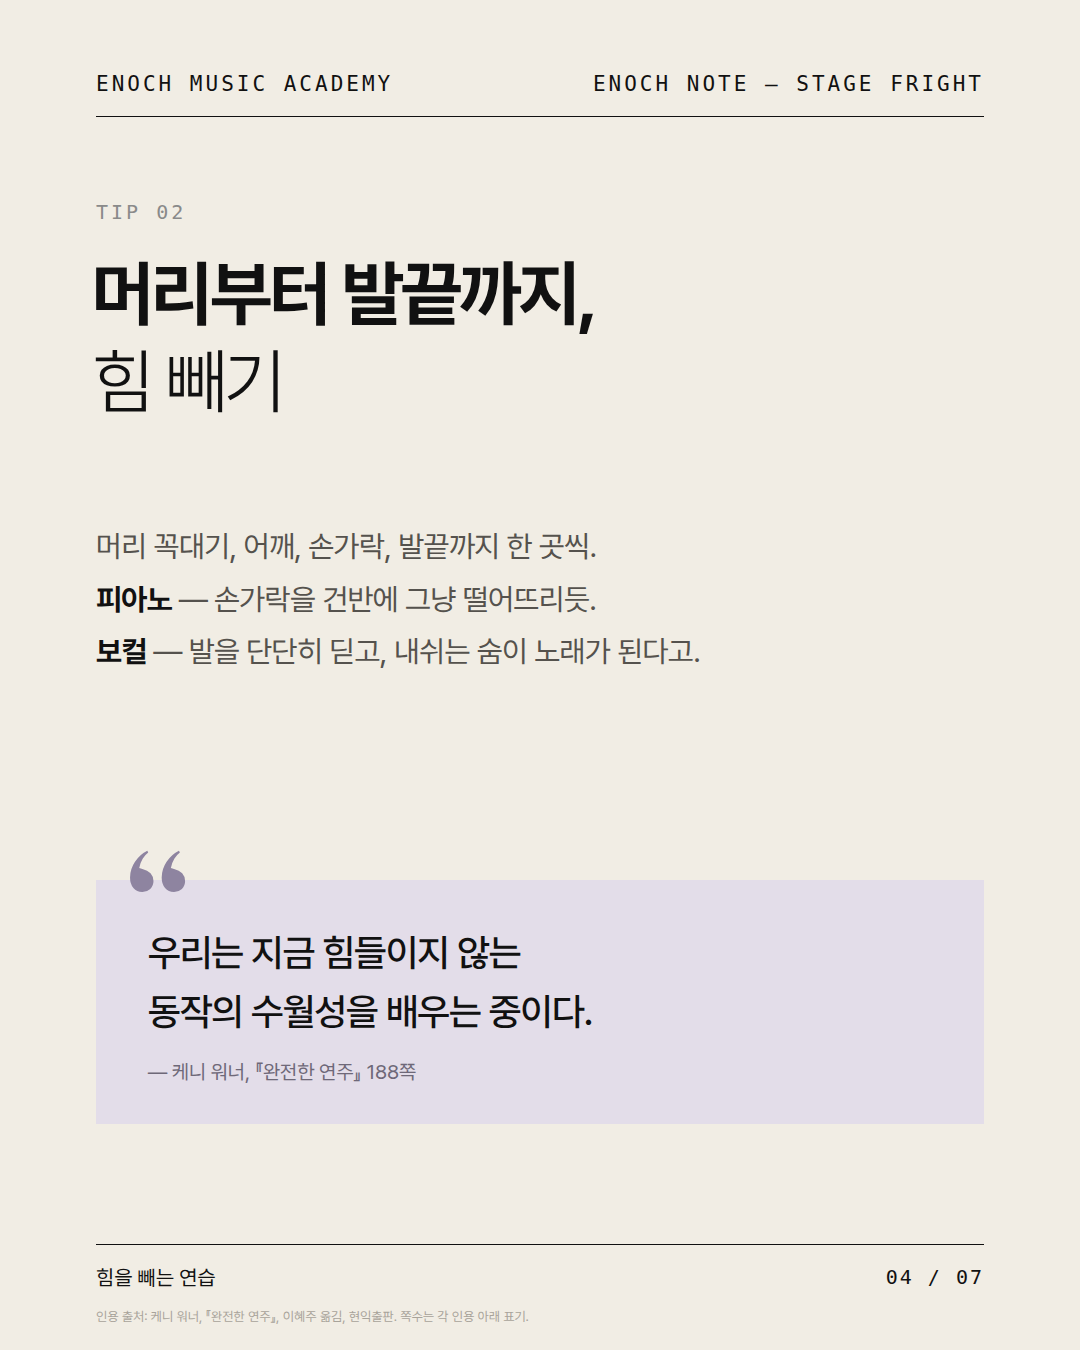
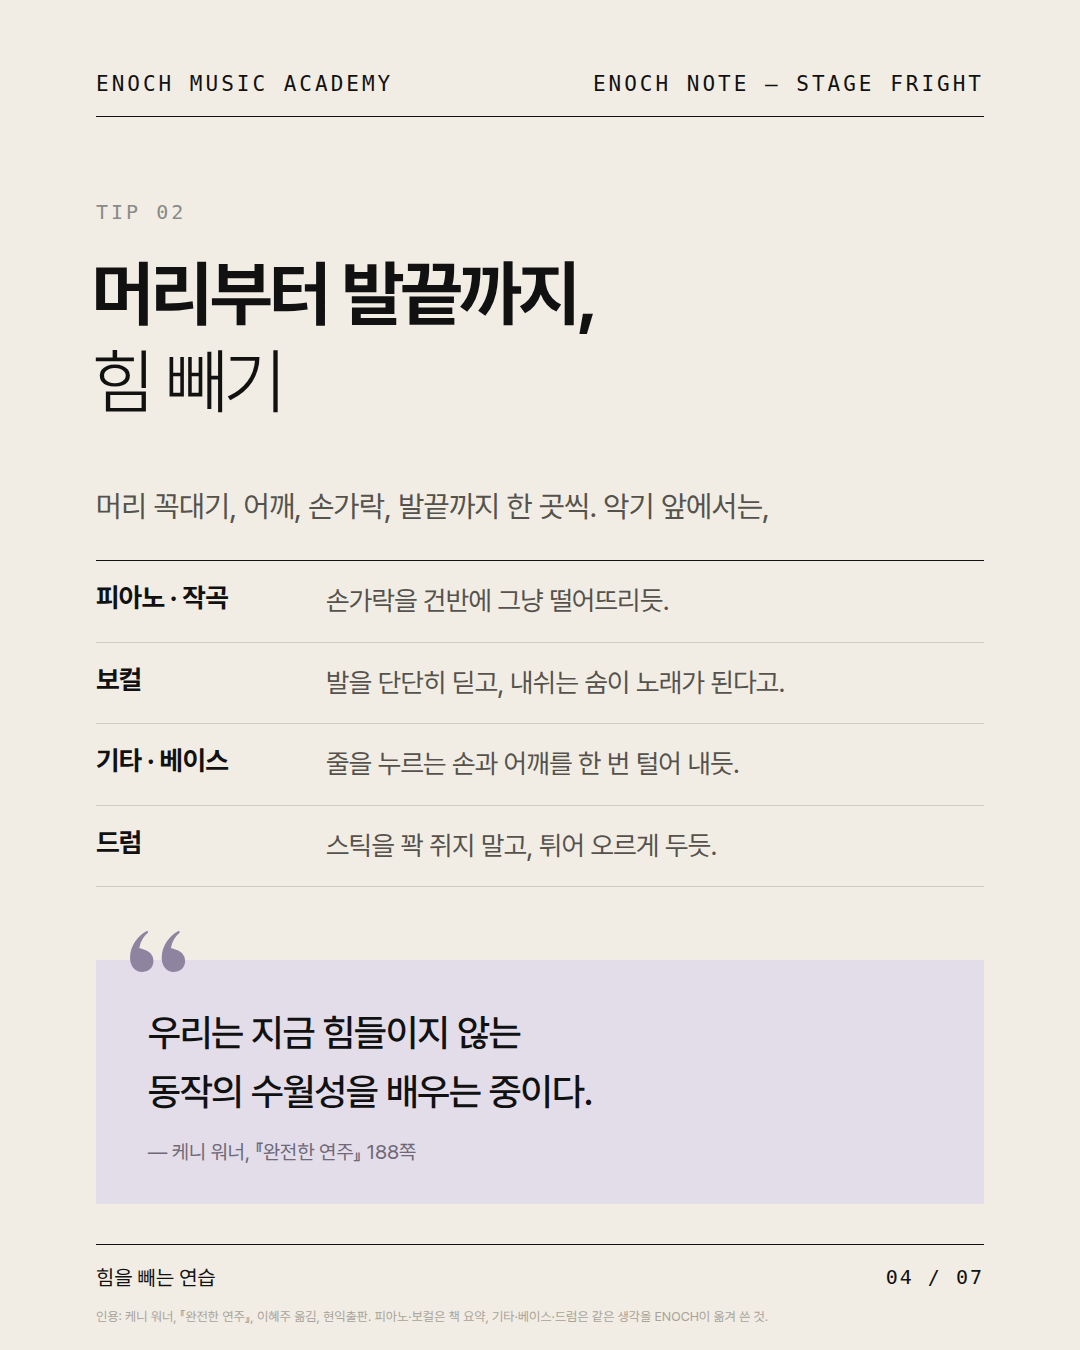
완전한 연주 편: 4장에 악기별 힘 빼기 한 줄 추가
Claude-Session: https://claude.ai/code/session_01HGbZvgMeYrbU7mY8bwfjyb

diff --git a/output/책_완전한연주_1단계/deck.html b/output/책_완전한연주_1단계/deck.html
@@ -53,9 +53,10 @@
 <div class="ft"><span>힘을 빼는 연습</span><span>03 / 07</span></div><div class="src">케니 워너, 『완전한 연주』 185쪽 요약.</div></section><section class="s" id="b4"><div class="hd"><span>ENOCH MUSIC ACADEMY</span><span>ENOCH NOTE — STAGE FRIGHT</span></div>
 <div class="k" style="position:absolute;left:96px;top:200px">Tip 02</div>
 <div class="h" style="position:absolute;left:92px;top:250px">머리부터 발끝까지,<br><em>힘 빼기</em></div>
-<div class="p" style="position:absolute;left:96px;right:96px;top:520px">머리 꼭대기, 어깨, 손가락, 발끝까지 한 곳씩.<br><b>피아노</b> — 손가락을 건반에 그냥 떨어뜨리듯.<br><b>보컬</b> — 발을 단단히 딛고, 내쉬는 숨이 노래가 된다고.</div>
-<div class="q" style="position:absolute;left:96px;right:96px;top:880px"><div class="t">우리는 지금 힘들이지 않는<br>동작의 수월성을 배우는 중이다.</div><div class="pg">— 케니 워너, 『완전한 연주』 188쪽</div></div>
-<div class="ft"><span>힘을 빼는 연습</span><span>04 / 07</span></div><div class="src">인용 출처: 케니 워너, 『완전한 연주』, 이혜주 옮김, 현익출판. 쪽수는 각 인용 아래 표기.</div></section><section class="s dark" id="b5"><div class="hd"><span>ENOCH MUSIC ACADEMY</span><span>TIP 03</span></div>
+<div class="p" style="position:absolute;left:96px;right:96px;top:480px">머리 꼭대기, 어깨, 손가락, 발끝까지 한 곳씩. 악기 앞에서는,</div>
+<div style="position:absolute;left:96px;right:96px;top:560px;border-top:1.5px solid #111"><div style="display:flex;gap:30px;padding:20px 0;border-bottom:1px solid rgba(17,17,17,.15)"><span style="width:200px;flex:none;font-size:27px;font-weight:700;letter-spacing:-.6px">피아노 · 작곡</span><span class="p" style="font-size:27px;line-height:1.5">손가락을 건반에 그냥 떨어뜨리듯.</span></div><div style="display:flex;gap:30px;padding:20px 0;border-bottom:1px solid rgba(17,17,17,.15)"><span style="width:200px;flex:none;font-size:27px;font-weight:700;letter-spacing:-.6px">보컬</span><span class="p" style="font-size:27px;line-height:1.5">발을 단단히 딛고, 내쉬는 숨이 노래가 된다고.</span></div><div style="display:flex;gap:30px;padding:20px 0;border-bottom:1px solid rgba(17,17,17,.15)"><span style="width:200px;flex:none;font-size:27px;font-weight:700;letter-spacing:-.6px">기타 · 베이스</span><span class="p" style="font-size:27px;line-height:1.5">줄을 누르는 손과 어깨를 한 번 털어 내듯.</span></div><div style="display:flex;gap:30px;padding:20px 0;border-bottom:1px solid rgba(17,17,17,.15)"><span style="width:200px;flex:none;font-size:27px;font-weight:700;letter-spacing:-.6px">드럼</span><span class="p" style="font-size:27px;line-height:1.5">스틱을 꽉 쥐지 말고, 튀어 오르게 두듯.</span></div></div>
+<div class="q" style="position:absolute;left:96px;right:96px;top:960px"><div class="t">우리는 지금 힘들이지 않는<br>동작의 수월성을 배우는 중이다.</div><div class="pg">— 케니 워너, 『완전한 연주』 188쪽</div></div>
+<div class="ft"><span>힘을 빼는 연습</span><span>04 / 07</span></div><div class="src">인용: 케니 워너, 『완전한 연주』, 이혜주 옮김, 현익출판. 피아노·보컬은 책 요약, 기타·베이스·드럼은 같은 생각을 ENOCH이 옮겨 쓴 것.</div></section><section class="s dark" id="b5"><div class="hd"><span>ENOCH MUSIC ACADEMY</span><span>TIP 03</span></div>
 <div class="h" style="position:absolute;left:92px;top:200px">잘해야 한다는 생각,<br><em>잠깐 내려놓기</em></div>
 <div class="p" style="position:absolute;left:96px;right:96px;top:470px">오늘 할 일은 연습한 만큼 연주하는 것.<br>잘 보여야 한다는 생각은, 2분만 옆에 두세요.</div>
 <div style="position:absolute;left:96px;right:96px;top:760px;background:#1E1D1B;padding:44px 52px 40px">

diff --git a/output/책_완전한연주_1단계/gen.py b/output/책_완전한연주_1단계/gen.py
@@ -78,9 +78,10 @@ S.append(f"""<section class="s" id="b3">{HD()}
 S.append(f"""<section class="s" id="b4">{HD()}
 <div class="k" style="position:absolute;left:96px;top:200px">Tip 02</div>
 <div class="h" style="position:absolute;left:92px;top:250px">머리부터 발끝까지,<br><em>힘 빼기</em></div>
-<div class="p" style="position:absolute;left:96px;right:96px;top:520px">머리 꼭대기, 어깨, 손가락, 발끝까지 한 곳씩.<br><b>피아노</b> — 손가락을 건반에 그냥 떨어뜨리듯.<br><b>보컬</b> — 발을 단단히 딛고, 내쉬는 숨이 노래가 된다고.</div>
-{quote("우리는 지금 힘들이지 않는<br>동작의 수월성을 배우는 중이다.", "케니 워너, 『완전한 연주』 188쪽", 880)}
-{FT(4)}{SRC}</section>""")
+<div class="p" style="position:absolute;left:96px;right:96px;top:480px">머리 꼭대기, 어깨, 손가락, 발끝까지 한 곳씩. 악기 앞에서는,</div>
+<div style="position:absolute;left:96px;right:96px;top:560px;border-top:1.5px solid #111"><div style="display:flex;gap:30px;padding:20px 0;border-bottom:1px solid rgba(17,17,17,.15)"><span style="width:200px;flex:none;font-size:27px;font-weight:700;letter-spacing:-.6px">피아노 · 작곡</span><span class="p" style="font-size:27px;line-height:1.5">손가락을 건반에 그냥 떨어뜨리듯.</span></div><div style="display:flex;gap:30px;padding:20px 0;border-bottom:1px solid rgba(17,17,17,.15)"><span style="width:200px;flex:none;font-size:27px;font-weight:700;letter-spacing:-.6px">보컬</span><span class="p" style="font-size:27px;line-height:1.5">발을 단단히 딛고, 내쉬는 숨이 노래가 된다고.</span></div><div style="display:flex;gap:30px;padding:20px 0;border-bottom:1px solid rgba(17,17,17,.15)"><span style="width:200px;flex:none;font-size:27px;font-weight:700;letter-spacing:-.6px">기타 · 베이스</span><span class="p" style="font-size:27px;line-height:1.5">줄을 누르는 손과 어깨를 한 번 털어 내듯.</span></div><div style="display:flex;gap:30px;padding:20px 0;border-bottom:1px solid rgba(17,17,17,.15)"><span style="width:200px;flex:none;font-size:27px;font-weight:700;letter-spacing:-.6px">드럼</span><span class="p" style="font-size:27px;line-height:1.5">스틱을 꽉 쥐지 말고, 튀어 오르게 두듯.</span></div></div>
+{quote("우리는 지금 힘들이지 않는<br>동작의 수월성을 배우는 중이다.", "케니 워너, 『완전한 연주』 188쪽", 960)}
+{FT(4)}<div class="src">인용: 케니 워너, 『완전한 연주』, 이혜주 옮김, 현익출판. 피아노·보컬은 책 요약, 기타·베이스·드럼은 같은 생각을 ENOCH이 옮겨 쓴 것.</div></section>""")
 
 S.append(f"""<section class="s dark" id="b5">{HD("TIP 03")}
 <div class="h" style="position:absolute;left:92px;top:200px">잘해야 한다는 생각,<br><em>잠깐 내려놓기</em></div>

diff --git a/output/책_완전한연주_1단계/caption.md b/output/책_완전한연주_1단계/caption.md
@@ -7,6 +7,7 @@
 
 1. 길게 내쉬기 — 들이쉰 것보다 더 길게.
 2. 머리부터 발끝까지 힘 빼기 — 머리, 어깨, 손가락, 발끝까지 한 곳씩.
+   피아노·작곡은 손가락을 건반에 그냥 떨어뜨리듯, 보컬은 발을 단단히 딛고 내쉬는 숨이 노래가 된다고, 기타·베이스는 줄을 누르는 손과 어깨를 한 번 털어 내듯, 드럼은 스틱을 꽉 쥐지 말고 튀어 오르게 두듯.
 3. 잘해야 한다는 생각, 잠깐 내려놓기 — 오늘 할 일은 연습한 만큼 연주하는 것.
 
 이 방법들은 재즈 피아니스트 케니 워너의 책 『완전한 연주』 4장 '단계적 연습'의 1단계에서 가져왔습니다.
@@ -24,7 +25,7 @@ ENOCH 입시 과정은 모두 1:1입니다. 시험장에서도 연습한 만큼 
 1. 아이보리와 라일락 면, 그랜드 피아노 선 그림. "시험장에서 떨릴 때, 해 볼 3가지".
 2. "떨리는 건, 잘하고 싶어서"와 팁 세 가지 목록.
 3. Tip 01 "길게, 내쉬기" 들숨보다 긴 날숨 곡선.
-4. Tip 02 "머리부터 발끝까지, 힘 빼기" 피아노·보컬 예와 인용(188쪽).
+4. Tip 02 "머리부터 발끝까지, 힘 빼기" 피아노·작곡, 보컬, 기타·베이스, 드럼별 한 줄과 인용(188쪽).
 5. 검정 장 Tip 03 "잘해야 한다는 생각, 잠깐 내려놓기" 인용(185쪽).
 6. 책 표지 사진과 "이 이야기가 나온 책" 『완전한 연주』, 인용(181쪽).
 7. 검정 장 "떨릴수록, 힘을 빼는 연습." 원칙 2, 입시 1:1, 주기적인 모의고사, 주소·전화.

diff --git a/output/책_완전한연주_1단계/review.md b/output/책_완전한연주_1단계/review.md
@@ -7,3 +7,4 @@
 - 파스텔: 라일락 한 가지. 주소·전화 ✔ / "~죠" 없음 ✔ / 원칙 2 ✔ / 우리 이야기: 입시 1:1 + 모의고사 ✔
 - 구성 변경(원장님 2026-10-13): 책 소개는 6장으로 옮기고, 1장은 시험장 떨림 훅으로. 머리말 ENOCH NOTE — STAGE FRIGHT.
 - 2026-10-13: 1장을 '시험장에서 떨릴 때, 해 볼 3가지'로, 2–5장을 팁 3개 구조로 재편(원장님 요청).
+- 2026-10-13: 4장에 악기별 한 줄 추가(원장님 요청). 피아노·보컬은 책 요약, 기타·베이스·드럼은 책에 없는 내용을 같은 결로 ENOCH이 씀 — 카드 하단에 구분 표기. 모두 상식 선.
